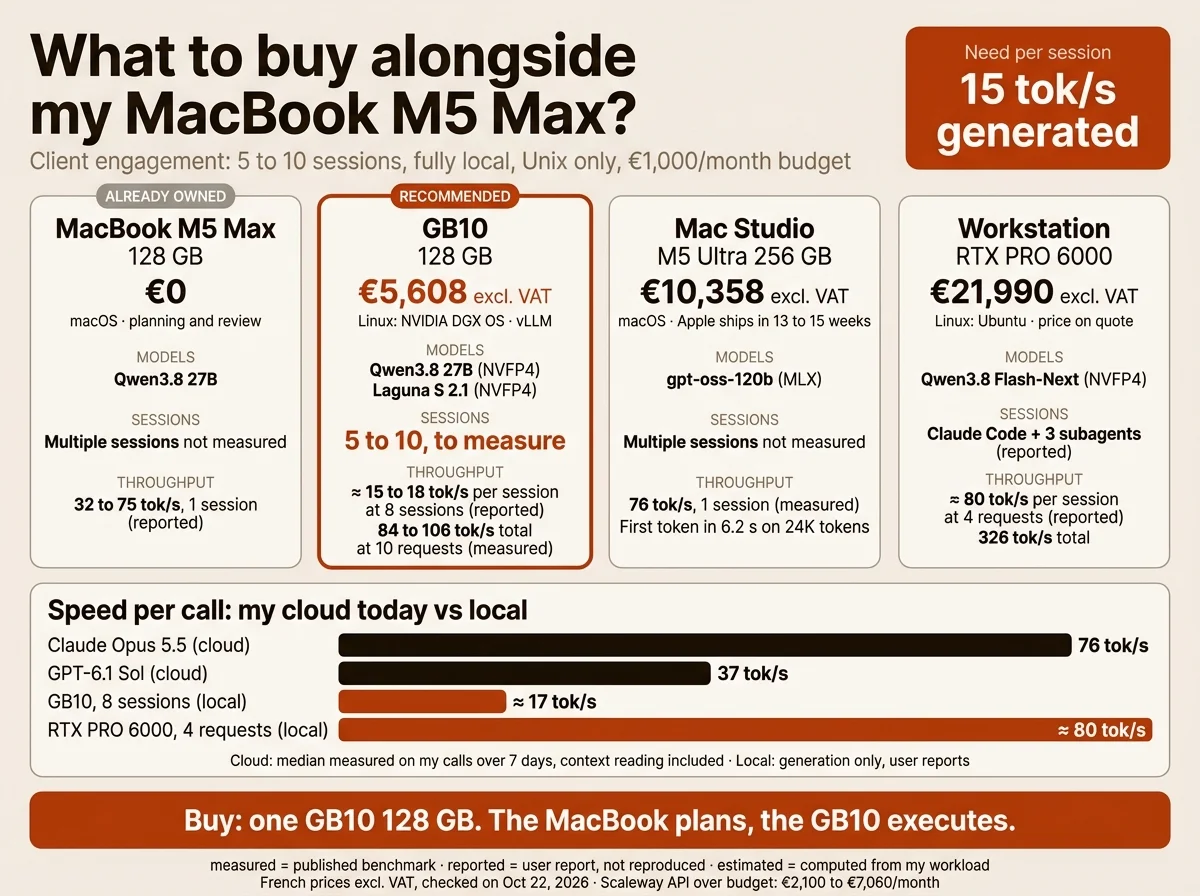
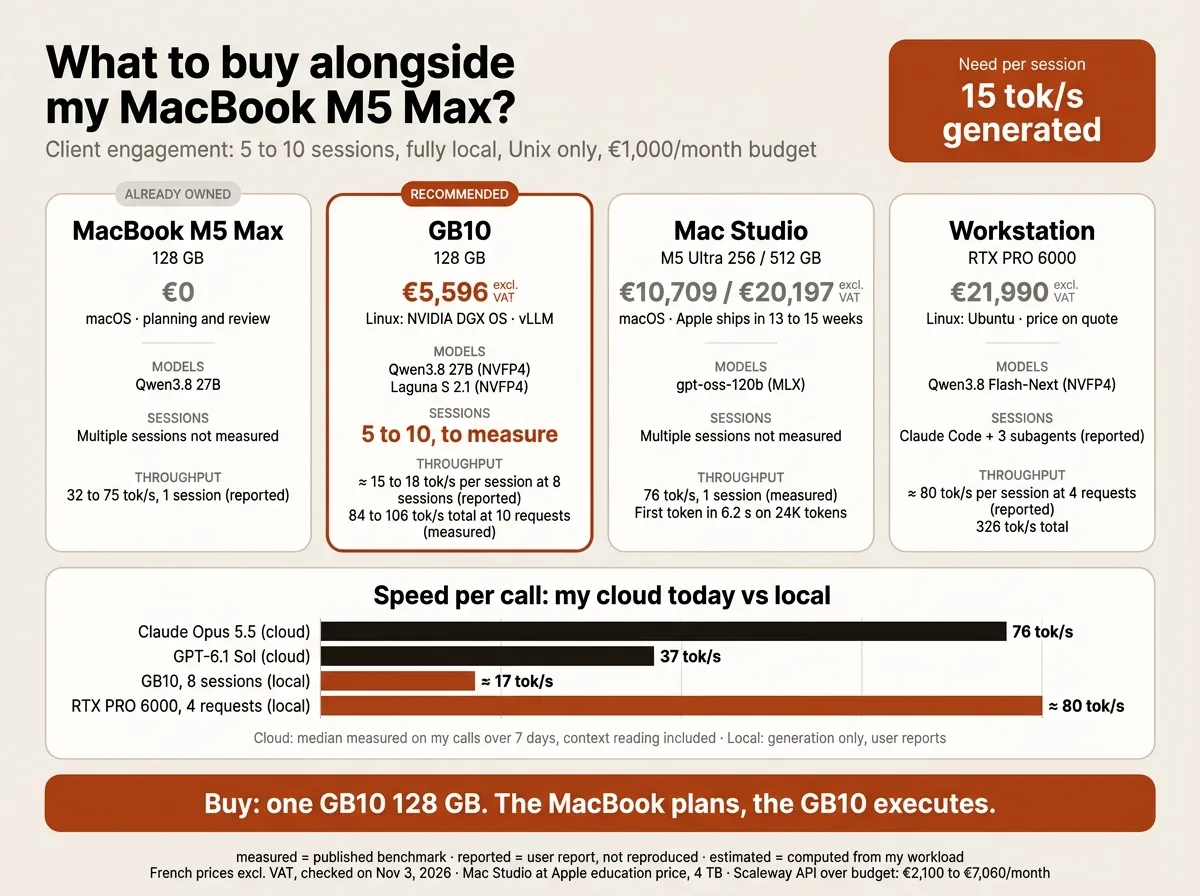
docs(inference): recheck Mac Studio, GB10 and model sizes on November 3
The Mac Studio M5 Ultra is now orderable with 512 GB. The page gives Apple
France education prices for the 36-core CPU, 80-core GPU, 4 TB
configuration: EUR 12,851 with 256 GB and EUR 24,236 with 512 GB, shipping
in 13 to 15 weeks. The worked example adds both rows and moves the Dell GB10
to EUR 5,595.52 excluding VAT. Its two infographics are regenerated.

Two model facts are corrected. GLM-5.3-Flash-NVFP4 is about 181 GiB
(194 GB), so it does not fit a 192 GB system. DeepSeek-V4.1-Flash-1017 has
763B parameters on its model card, not 552B; the two-GB10 recipe keeps its
Engram tables on disk.

reference.yaml and its MCP mirror record the recheck, and mcp-product.json
carries the new source digest.

diff --git a/guide/ecosystem/local-vs-cloud-inference.md b/guide/ecosystem/local-vs-cloud-inference.md
@@ -40,7 +40,7 @@ tags: [ecosystem, hardware, local-llm, cloud, cost, benchmarks]
 
 ## Data snapshot date
 
-Every price, spec, and throughput number on this page is a snapshot from **August 2026**, except where a row or paragraph says it was rechecked on **October 1, 2026** (Mac Studio, Strix Halo and Gorgon Halo rows, the bandwidth table, and the small-team section) or on **October 21, 2026** (DGX Spark and GB10 prices, the 64 GB GB10 variant, Strix Halo and Gorgon Halo listings, RTX Spark laptops, and the long-prompt measurements in the bandwidth section) or on **October 22, 2026** (the worked example at the end of the page) or on **October 24, 2026** (the multi-session Qwen3.6-35B-A3B figures in the MLX, small-team and worked-example sections, and the tool-call note under prefix caching). Memory prices rose sharply through 2026: TrendForce reported conventional DRAM contract prices up 93-98% quarter over quarter in Q1 2026 and forecast another 58-63% in Q2 ([TrendForce, June 1, 2026](https://www.trendforce.com/presscenter/news/20260601-13070.html), not re-read for this revision), so 128 GB-class machines can cost markedly more than at launch. GPU prices move by double digits in weeks, cloud providers reprice without notice, and model families get replaced. Treat the tables as a method to reproduce, not a permanent price list. The queries and CLI commands used to produce this page are included so you can rerun them.
+Every price, spec, and throughput number on this page is a snapshot from **August 2026**, except where a row or paragraph says it was rechecked on **October 1, 2026** (Mac Studio, Strix Halo and Gorgon Halo rows, the bandwidth table, and the small-team section) or on **October 21, 2026** (DGX Spark and GB10 prices, the 64 GB GB10 variant, Strix Halo and Gorgon Halo listings, RTX Spark laptops, and the long-prompt measurements in the bandwidth section) or on **October 22, 2026** (the worked example at the end of the page) or on **October 24, 2026** (the multi-session Qwen3.6-35B-A3B figures in the MLX, small-team and worked-example sections, and the tool-call note under prefix caching) or on **November 3, 2026** (Mac Studio M5 Ultra 256 GB and 512 GB prices on Apple France, the GB10 and Mac Studio prices in the worked example, and the GLM-5.3-Flash and DeepSeek-V4.1-Flash-1017 rows). Memory prices rose sharply through 2026: TrendForce reported conventional DRAM contract prices up 93-98% quarter over quarter in Q1 2026 and forecast another 58-63% in Q2 ([TrendForce, June 1, 2026](https://www.trendforce.com/presscenter/news/20260601-13070.html), not re-read for this revision), so 128 GB-class machines can cost markedly more than at launch. GPU prices move by double digits in weeks, cloud providers reprice without notice, and model families get replaced. Treat the tables as a method to reproduce, not a permanent price list. The queries and CLI commands used to produce this page are included so you can rerun them.
 
 For a live view instead of this fixed snapshot, two trackers update continuously rather than on a fixed schedule: [llm-stats.com](https://llm-stats.com/llm-updates) (benchmark scores, arena votes, and API pricing pulled directly from providers) and [benchlm.ai](https://benchlm.ai/) (401+ models across 46 leaderboard categories, including tokens/sec and time-to-first-token, explicitly excluding algorithmically-generated benchmark data). Neither replaces the hardware-fit math on this page, which still needs `llmfit` against your own target model.
 
@@ -102,7 +102,7 @@ Bare GPUs are not comparable to laptops or appliances. The table below only list
 | 9 | AMD Ryzen AI Max PRO 400 ("Gorgon Halo") | Ryzen AI Max+ PRO 495, Zen 5, 16 cores/32 threads, up to 5.2 GHz | Up to 192 GB unified LPDDR5X-8533, up to 160 GB addressable by the GPU | Radeon 8065S integrated, 40 CU RDNA 3.5 | 2-4 TB (estimated) | Announced by AMD; not shipping as of September 27, 2026 per Petronella, which reports HP ZBook Ultra G3a pricing of $5,999 (128 GB) and $7,449 (192 GB). Listings on October 16, 2026: Framework Desktop 400 (192 GB) $6,799 DIY pre-order shipping in November, Acemagic F9A $6,499, GMKtec EVO-X5 Pro $6,799, Minisforum MS-S1 MAX-P495 $7,399. No independent benchmark of production hardware found (rechecked Oct 21, 2026) |
 | 10 | Workstation pair, 2x NVIDIA DGX Spark | 2x Grace, 20 Arm cores each (10x Cortex-X925 + 10x Cortex-A725) | 256 GB unified LPDDR5x combined (2x128 GB) | 2x GB10 Blackwell, 12,288 CUDA cores combined (96 SM), no dedicated VRAM, no NVLink | 2x 4 TB NVMe (included) | ≈$13,900, twice the $6,950 October 2026 listing above (≈$9,398 at the February-September $4,699 price). No bundle price checked |
 | 11 | Workstation, dual RTX 5090 | *Example*: AMD Threadripper 7960X, 24 cores | 128-256 GB DDR5 (host only) | 2x RTX 5090, 43,520 CUDA cores combined, 64 GB GDDR7 combined, no NVLink | 4 TB NVMe | ≈€8,000-12,000 |
-| 12 | Mac Studio, Apple M5 Ultra | Apple M5 Ultra, 30 or 36 cores | 96-256 GB unified (512 GB announced for late October 2026), 1.2 TB/s | Integrated GPU, 64 or 80 cores | 1-16 TB SSD | From $5,499 (96 GB); 256 GB from $9,499 (30-core CPU, 1 TB). French base price €6,599 (rechecked Oct 1, 2026) |
+| 12 | Mac Studio, Apple M5 Ultra | Apple M5 Ultra, 30 or 36 cores | 96-512 GB unified, 1.2 TB/s | Integrated GPU, 64 or 80 cores | 1-16 TB SSD | From $5,499 (96 GB); 256 GB from $9,499 (30-core CPU, 1 TB). French base price €6,599 (rechecked Oct 1, 2026). Apple France education prices on Nov 3, 2026, 36-core CPU and 80-core GPU with a 4 TB SSD: €12,851 (256 GB) and €24,236 (512 GB), shipping in 13 to 15 weeks |
 | 13 | Workstation, RTX PRO 6000 Blackwell | *Example*: AMD Threadripper PRO 7975WX, 32 cores | 128-256 GB DDR5 ECC (host only) | RTX PRO 6000, 24,064 CUDA cores, 96 GB GDDR7 ECC dedicated | 4 TB NVMe | ≈€16,000-18,000 (the card alone is ≈€14,000) |
 | 14 | Workstation, dual RTX PRO 6000 Blackwell | *Example*: AMD Threadripper PRO 7995WX, 96 cores | 256 GB+ DDR5 ECC (host only) | 2x RTX PRO 6000, 48,128 CUDA cores combined, 192 GB GDDR7 combined, no NVLink | 4-8 TB NVMe | ≈€30,000-32,000+ |
 
@@ -123,7 +123,7 @@ Memory capacity decides which model loads. Memory bandwidth sets the ceiling on 
 | NVIDIA RTX Spark laptops (N1X) | Up to 128 GB; on Windows a fixed GPU/CPU split, 62.5 GB GPU-usable on a 128 GB unit set to 64/64 | ≈300 GB/s, computed from 256-bit LPDDR5X-9400 | Not advertised | Memory configuration from StorageReview, Oct 16, 2026 |
 | AMD Ryzen AI Max+ PRO 495 (Gorgon Halo) | Up to 192 GB | ≈273 GB/s, computed from 256-bit LPDDR5X-8533 | Not advertised | AMD spec page; not shipping yet |
 | Mac Studio M5 Max | Up to 128 GB | 614 GB/s | Not advertised | Apple newsroom, August 2026 |
-| Mac Studio M5 Ultra | Up to 256 GB, 512 GB from late October 2026 | 1.2 TB/s | Not advertised | Apple newsroom, August 2026 |
+| Mac Studio M5 Ultra | Up to 512 GB (orderable on Apple France on Nov 3, 2026, shipping in 13 to 15 weeks) | 1.2 TB/s | Not advertised | Apple newsroom, August 2026; Apple France education store, November 3, 2026 |
 | RTX PRO 6000 Blackwell | 96 GB dedicated GDDR7 | Card spec, not unified memory | Yes, ECC GDDR7 | NVIDIA |
 
 **Bandwidth predicts the decode ceiling for dense models.** A one-machine benchmark of dense Qwen3.8-27B on a DGX Spark (ASUS GX10) measured FP8 weights (29 GB) at 7.8 tok/s against about 23 tok/s at Q4_K_M (19.6 GB): the larger file reads more bytes per token, so it decodes slower despite newer tensor-core formats. The same repo reports 8-16 tok/s for that dense model through llama.cpp and 24 tok/s for everyday chat through vLLM with NVFP4 and prefix caching, measured September 5-8, 2026. Source: [HAOyezi/qwen38-27b-dgx-spark-benchmarks](https://github.com/HAOyezi/qwen38-27b-dgx-spark-benchmarks), one author, one machine.
@@ -164,7 +164,7 @@ In the table, "MoE" means mixture of experts. The MoE layers of such a model hol
 | 64 GB VRAM (dual RTX 5090) | **`meta-llama/Llama-4-Scout-17B-16E`** | MoE, 109B total, 17B active | 55.6 GB for weights; it loads, but the remaining 8.4 GB is limited once runtime and KV cache are included |
 | 96-128 GB (RTX PRO 6000, MacBook Pro M5 Max, DGX Spark, Ryzen AI Halo) | Llama-4-Scout fits with large headroom; no confirmed current-generation flagship lands specifically between 56 GB and 200 GB as of this snapshot | | |
 | 192-256 GB (dual RTX PRO 6000, Mac Studio M5 Ultra) | **`deepseek-ai/DeepSeek-V4-Flash-0731`** (MIT, GA release July 30-31, 2026) fits within the published third-party weight estimates on both configs; `meta-llama/Llama-4-Maverick-17B-128E` (≈400B total, MoE, community license) fits only on the 256 GB config | MoE, 304B total / 13B active per NVIDIA's official Build model card; the earlier preview build was 284B total at the same 13B active, and neither DeepSeek nor NVIDIA states why the GA release's total grew | No official VRAM figure exists. Third-party quantized estimates for the GA release cluster around 100-170 GB (Unsloth: ≈103 GB at 3-bit, ≈162 GB at "lossless" 8-bit; Spheron: ≈166 GB at INT4; `llmfit`: 155.8 GB). The upper end leaves about 22 GB before runtime and KV cache on a 192 GB system. Llama-4-Maverick-17B-128E needs 205.7 GB, so it fits 256 GB and does not fit 192 GB at that estimate |
-| 192-256 GB (dual RTX PRO 6000, Mac Studio M5 Ultra, dual DGX Spark) | **`LibertAIDAI/GLM-5.3-Flash-NVFP4`**, a third-party NVFP4 quantization of Zhipu/Z.ai's `GLM-5.3-Flash` (MIT license, 1,048,576-token context, first natively multimodal model in the GLM-5 line: text, image, and video). Z.ai announced it officially on Aug 26, 2026, after running it anonymously as "Ox Alpha" on OpenRouter and OpenCode from Aug 20 | MoE, 320B total / 18B active across 45 layers, distinct from the 743B-parameter `GLM-5.3` flagship SKU below | ≈181 GiB, down from 598.5 GiB in BF16. Weight-only NVFP4 on the routed FFN tensors (≈97% of parameters, the rest stays BF16); the checkpoint's authors report ≈0.99665 per-expert cosine round-trip fidelity against the BF16 source. Comfortably clears the 192 GB floor with headroom for runtime and KV cache, unlike the other rows in this bracket. The checkpoint was verified by its own authors only on a 2x DGX Spark pair (SGLang, tensor-parallel 2); their README states vLLM does not run on that combination |
+| 256 GB (Mac Studio M5 Ultra 256 GB, dual DGX Spark) | **`LibertAIDAI/GLM-5.3-Flash-NVFP4`**, a third-party NVFP4 quantization of Zhipu/Z.ai's `GLM-5.3-Flash` (MIT license, 1,048,576-token context, first natively multimodal model in the GLM-5 line: text, image, and video). Z.ai announced it officially on Aug 26, 2026, after running it anonymously as "Ox Alpha" on OpenRouter and OpenCode from Aug 20 | MoE, 320B total / 18B active across 45 layers, distinct from the 743B-parameter `GLM-5.3` flagship SKU below | ≈181 GiB, down from 598.5 GiB in BF16. Weight-only NVFP4 on the routed FFN tensors (≈97% of parameters, the rest stays BF16); the checkpoint's authors report ≈0.99665 per-expert cosine round-trip fidelity against the BF16 source. 181 GiB is about 194 GB, so the checkpoint does not fit a 192 GB system such as dual RTX PRO 6000, as an earlier revision of this page stated; 256 GB leaves at most about 62 GB for runtime and KV cache. On a 2x DGX Spark pair, the model card reports that 8 requests at 128K context fail while 2 requests at 64K run (checked November 3, 2026). The checkpoint was verified by its own authors only on a 2x DGX Spark pair (SGLang, tensor-parallel 2); their README states vLLM does not run on that combination |
 | Any config on this page | **`zai-org/GLM-5.2`** (≈753B total, MoE, MIT). `GLM-5.3` (743B total, MoE, announced Aug 14, 2026, not Aug 17 as an earlier revision of this page stated) is the same base model with a post-training coding upgrade; weights ship staged, roughly two weeks after announcement. It is a separate SKU from `GLM-5.3-Flash` above, a smaller, distinct model that does fit this page's hardware once quantized | MoE, ≈40B active / 256 experts | 385.9 GB, exceeds everything here |
 | Any config on this page | **`deepseek-ai/DeepSeek-V4-Pro-0813`** (1.6T total, MoE, MIT, GA Aug 13, 2026) | MoE, **49B active** (officially confirmed) | 845.4 GB, does not fit |
 | Any config on this page | **`Qwen/Qwen3.8-2.4T-A95B`** (2.4T total, MoE, open-weight base of the hosted Qwen3.8-Max) | MoE, ≈95B active / 512 experts | 1,253 GB, does not fit |
@@ -766,15 +766,17 @@ This section is my own case, as the author of this guide, written while I am dec
 
 **Why a sovereign API does not fit the budget.** Scaleway's Paris Generative APIs list Qwen3.6-35B-A3B at €0.25 in / €1.50 out and gpt-oss-120b at €0.15 / €0.60 per million tokens, excluding VAT, with no cached-input price for these two models ([Scaleway pricing](https://www.scaleway.com/fr/tarifs/model-as-a-service/), checked October 22, 2026). A coding agent resends its context on every turn: in my logs, cache reads are 39.4 times the uncached input, so one session sends about 4,400 input tokens per second. At 8 hours a day, 22 days a month, 5 sessions would cost about €3,530 (Qwen3.6-35B-A3B) or €2,100 (gpt-oss-120b) a month, and 10 sessions about €7,060 or €4,200. Pricing only the uncached part, as a first estimate did, understates the bill about 20 times.
 
-[![What to buy alongside my MacBook M5 Max: a GB10 128 GB at €5,608 excluding VAT, about €164 a month over three years and paid back in about six months, is recommended; a Mac Studio M5 Ultra 256 GB costs €10,358, a RTX PRO 6000 workstation €21,990, and the Scaleway API €2,100 to €7,060 a month, over budget.](../images/local-vs-cloud-worked-example-purchase.webp)](../images/local-vs-cloud-worked-example-purchase.webp)
+[![What to buy alongside my MacBook M5 Max: a GB10 128 GB at €5,596 excluding VAT, about €164 a month over three years and paid back in about six months, is recommended; a Mac Studio M5 Ultra costs €10,709 with 256 GB or €20,197 with 512 GB at Apple's education price, a RTX PRO 6000 workstation €21,990, and the Scaleway API €2,100 to €7,060 a month, over budget.](../images/local-vs-cloud-worked-example-purchase.webp)](../images/local-vs-cloud-worked-example-purchase.webp)
 
 | Option (French prices, excl. VAT) | Purchase | Monthly over 3 years | Pays back vs €1,000/month | OS |
 |---|---|---|---|---|
-| GB10 128 GB: Dell Pro Max with GB10, 2 TB | €5,608.52 ([Dell France](https://www.dell.com/fr-fr/shop/desktop-computers/spd/dellpromaxwithgb10fcm1253)) | ≈€164 | ≈6 months | NVIDIA DGX OS 7 (Linux), no Windows option |
+| GB10 128 GB: Dell Pro Max with GB10, 2 TB | €5,595.52 ([Dell France](https://www.dell.com/fr-fr/shop/desktop-computers/spd/dellpromaxwithgb10fcm1253), Nov 3; €5,608.52 on Oct 22) | ≈€164 | ≈6 months | NVIDIA DGX OS 7 (Linux), no Windows option |
 | Mac Studio M5 Ultra 256 GB, 1 TB | €10,357.50 ([LDLC.pro](https://www.ldlc.pro/fiche/PB00760889.html), "+ de 15 jours") | ≈€297 | ≈10 months | macOS |
+| Mac Studio M5 Ultra 256 GB, 4 TB, Apple education price | €10,709 (€12,851 incl. VAT, apple.com/fr education store) | ≈€306 | ≈11 months | macOS |
+| Mac Studio M5 Ultra 512 GB, 4 TB, Apple education price | €20,197 (€24,236 incl. VAT, apple.com/fr education store) | ≈€570 | ≈20 months | macOS |
 | RTX PRO 6000 Max-Q workstation, 128 GB ECC | from €21,990, final price on quote ([Happy Mining](https://happymining.fr/products/station-ia-threadripper-rtx-pro-6000)) | ≈€631 | ≈22 months | Ubuntu LTS |
 
-All three listings were read on October 22, 2026. On the same day, apple.com/fr quoted 13 to 15 weeks before shipping for a 256 GB / 4 TB M5 Ultra configuration. The monthly column adds electricity at €0.1624/kWh excluding VAT ([Selectra, EDF Tarif Bleu Pro, updated October 8, 2026](https://entreprises.selectra.info/energie/fournisseurs/edf)) for 176 active hours and 544 idle hours a month, with assumed draws of 200 W / 30 W (GB10), 250 W / 20 W (Mac Studio) and 450 W / 80 W (workstation). Those draws are budgeting assumptions, not measurements; at this usage, electricity comes to €8-20 a month per machine. No resale value, financing or maintenance is included, and the payback column assumes the purchase really removes €1,000 of monthly API spend.
+The Dell, LDLC and Happy Mining listings were first read on October 22, 2026. Dell and LDLC were reread on November 3, 2026: Dell had moved to €5,595.52, LDLC was unchanged. The two Apple rows come from Apple's French education store on November 3, 2026, which quoted 13 to 15 weeks before shipping for both configurations (36-core CPU, 80-core GPU); their excluding-VAT figures assume the displayed price includes 20% VAT. The education price requires eligibility, and the standard Apple price was not read. The monthly column adds electricity at €0.1624/kWh excluding VAT ([Selectra, EDF Tarif Bleu Pro, updated October 8, 2026](https://entreprises.selectra.info/energie/fournisseurs/edf)) for 176 active hours and 544 idle hours a month, with assumed draws of 200 W / 30 W (GB10), 250 W / 20 W (Mac Studio) and 450 W / 80 W (workstation). Those draws are budgeting assumptions, not measurements; at this usage, electricity comes to €8-20 a month per machine. No resale value, financing or maintenance is included, and the payback column assumes the purchase really removes €1,000 of monthly API spend.
 
 [![Models, sessions and throughput per machine, and a bar comparison of speed per call: Claude Opus 5.5 at 76 tok/s and GPT-6.1 Sol at 37 tok/s in the cloud, against about 17 tok/s per session for a GB10 running Qwen3.8-27B at eight sessions and about 80 tok/s per session for a RTX PRO 6000 at four requests.](../images/local-vs-cloud-worked-example-models.webp)](../images/local-vs-cloud-worked-example-models.webp)
 
@@ -795,7 +797,7 @@ All three listings were read on October 22, 2026. On the same day, apple.com/fr 
 | [Qwen3.8-27B](https://huggingface.co/Qwen/Qwen3.8-27B) | 27B dense, ≈22 GB NVFP4 | Apache 2.0 | One GB10, the MacBook | SWE-bench Pro 61.7, vendor, Claude Code harness |
 | [Laguna S 2.1](https://huggingface.co/poolside/Laguna-S-2.1-NVFP4) (Poolside) | 117.6B MoE, 8.5B active, ≈71 GB NVFP4 | OpenMDW-1.1, permissive | One GB10, the MacBook | SWE-bench Pro 59.4, vendor, Poolside harness |
 | [GLM-5.3-Flash](https://huggingface.co/zai-org/GLM-5.3-Flash) | 320B MoE, 18B active, FP8 checkpoint | MIT | Two GB10s at about 4 bits | Terminal-Bench 4.0 37.37, Vals |
-| [DeepSeek-V4.1-Flash-1017](https://huggingface.co/deepseek-ai/DeepSeek-V4.1-Flash) | 552B MoE, 8B / 16B active | MIT | Two GB10s at 2.9 bpw (community TensorFold engine) | Terminal-Bench 4.0 31.82, Vals |
+| [DeepSeek-V4.1-Flash-1017](https://huggingface.co/deepseek-ai/DeepSeek-V4.1-Flash) | 763B MoE on the model card (an earlier revision said 552B; checked Nov 3, 2026), 8B / 16B active | MIT | Two GB10s at 2.9 bpw (community TensorFold engine): 414 GB of files, the Engram tables stay on disk and the head node holds about 108 GiB ([recipe README](https://github.com/Elevatormusic/DeepSeek-V4.1-Flash-1017-EXL3-TensorFold-2x-DGX-Spark)) | Terminal-Bench 4.0 31.82, Vals |
 | Qwen3.8 Flash-Next | 125B MoE + 51B n-gram table, 6B active | qwen-community-1.0, not Apache | One GB10 only with the table on NVMe | not on the Vals board |
 | [Qwen3.6-35B-A3B](https://huggingface.co/Qwen/Qwen3.6-35B-A3B) (added Oct 24) | 35B MoE, 3B active, ≈20-26 GB at 4-6 bits | Apache 2.0 | One GB10, the MacBook | SWE-bench Verified 73.4, vendor |
 | [KAT-Coder-V2.5-Dev](https://huggingface.co/Kwaipilot/KAT-Coder-V2.5-Dev) (Kwaipilot, added Oct 24) | 35B MoE, 3B active | Apache 2.0 | One GB10, the MacBook (same size class as Qwen3.6-35B-A3B) | SWE-bench Verified 69.40, labelled in-house reproduction |

diff --git a/CHANGELOG.md b/CHANGELOG.md
@@ -14,6 +14,7 @@ The format is based on [Keep a Changelog](https://keepachangelog.com/en/1.0.0/).
 
 ### Changed
 
+- **Local vs cloud inference, November 3, 2026 recheck** (`guide/ecosystem/local-vs-cloud-inference.md`): the Mac Studio M5 Ultra now lists 512 GB as orderable, with Apple France education prices for the 36-core CPU, 80-core GPU and 4 TB configuration (€12,851 with 256 GB, €24,236 with 512 GB, 13 to 15 weeks). The worked example adds both Apple rows and moves the Dell GB10 to €5,595.52 excluding VAT. Two model facts are corrected: `GLM-5.3-Flash-NVFP4` at 181 GiB (about 194 GB) does not fit a 192 GB system, and `DeepSeek-V4.1-Flash-1017` has 763B parameters on its model card, not 552B; the two-GB10 recipe keeps its Engram tables on disk. The two worked-example infographics are regenerated with the new prices. `machine-readable/reference.yaml` and its MCP mirror record the recheck, and `mcp-product.json` carries the new source digest.
 - **Threat intelligence reviewed November 2, 2026**: database 2.32.0 adds 31 advisories (Claude Code, Claude Desktop, Claude Agent SDK for Python, MCP Python and TypeScript SDKs, FastMCP, chrome-devtools-mcp, Junie CLI, Langflow, nginx-ui and 10 other MCP servers or integrations) and four CVE-only reports tracked as `monitoring` without a version floor. New `security-hardening.md` section covers the MCP SDK fixes that need configuration, repositories that run code when opened (Junie CLI, ZCode, the testmetest startup hooks) and the tampered Claude Code extension served by Cursor's marketplace on October 29. AgentSec tracks 219 advisories; the compatibility catalogue keeps nine historical guide-only records and now contains 228. Synchronized the canonical feed and both reference indexes. The testmetest event is `partial` (Claude Code and VS Code hooks reported as review findings); every vulnerability addition remains `not_detected`.
 - **Review workflow reading**: the Code Review page links the author's "From code to merge" talk guide, and the multi-provider review page links the guides on operating a multi-reviewer system and designing a bounded review loop.
 - **Portfolio links**: links to florian.bruniaux.com now use the final `www` host instead of the redirecting apex.
